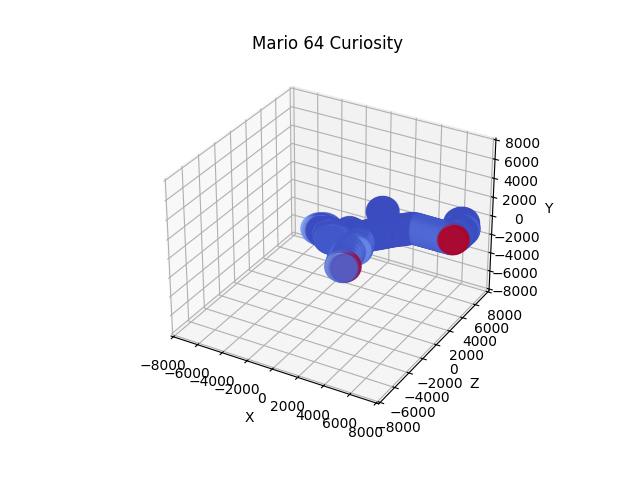
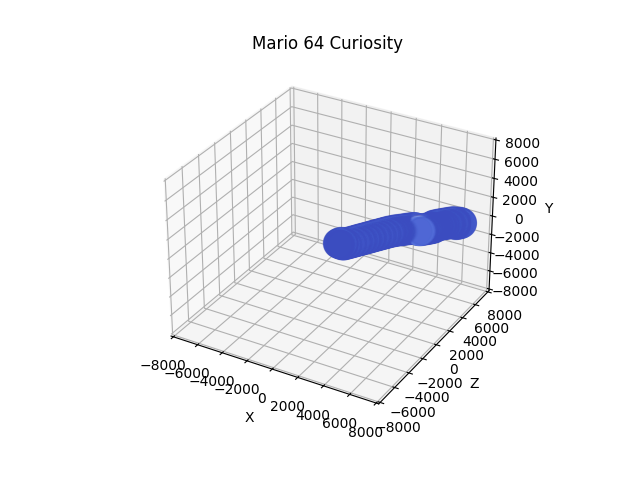
continuous visits support, considering using max visits in a sphere instead of using the immediate position visits

Changed region(s): [[0.4688, 0.4062, 0.625, 0.5938], [0.625, 0.4062, 0.75, 0.5312]]

diff --git a/sm64env/curiosity_util.py b/sm64env/curiosity_util.py
@@ -10,17 +10,17 @@ class CURIOSITY:
 
         self.F_shape = np.array([2 * self.bounding_size // self.chunk_xz_size, 2 * self.bounding_size // self.chunk_y_size, 2 * self.bounding_size // self.chunk_xz_size])
  
-        self.sphere_mask = self.create_mask()
+        self.sphere_mask, self.sphere_values = self.create_mask()
 
-        self.F = np.zeros(shape=self.F_shape, dtype=int)
+        self.F = np.zeros(shape=self.F_shape, dtype=float)
     
     def reset(self):
-        self.F = np.zeros(shape=self.F_shape, dtype=int)
+        self.F = np.zeros(shape=self.F_shape, dtype=float)
     
     def soft_reset(self):
-        self.F = self.F // 2
+        self.F = self.F / 2
 
-    def create_ellipsoid_tensor(self,shape_sphere):
+    def create_ellipsoid_tensor(self, shape_sphere):
         a, b, c = shape_sphere
         x = np.linspace(-1, 1, a)
         y = np.linspace(-1, 1, b)
@@ -31,23 +31,32 @@ class CURIOSITY:
         # print(yv)
         # print(zv)
         ellipsoid = (xv)**2 + (yv)**2 + (zv)**2 <= 1
-        
-        return ellipsoid
+        values = np.exp(-(xv**2 + yv**2 + zv**2))
+        return ellipsoid, values
 
-    def create_mask(self,):
+    def create_mask(self):
         shape_sphere = np.array([(2 * self.radius) // self.chunk_xz_size + 1, (2 * self.radius) // self.chunk_y_size + 1, (2 * self.radius) // self.chunk_xz_size + 1])
         # print(shape_rad)
-        tensor = self.create_ellipsoid_tensor(shape_sphere)
+        tensor, values = self.create_ellipsoid_tensor(shape_sphere)
+
         indices = np.argwhere(tensor)
+        values = values[indices[:, 0], indices[:, 1], indices[:, 2]]
+
         indices -= shape_sphere//2
-        return indices
+        return indices, values
 
     def add_circle(self,centre):
         centre = np.array(centre, dtype=int)
         indices = self.sphere_mask.copy()
+        values = self.sphere_values.copy()
+
         indices += self.pos_to_index(centre)
         # don't go over or under the bounds
-        indices = indices[((indices) >= 0).all(axis=1) & ((indices) < np.array(self.F_shape)).all(axis=1)]
+        indices_indices = ((indices) >= 0).all(axis=1) & ((indices) < np.array(self.F_shape)).all(axis=1)
+        values = values[indices_indices]
+        indices = indices[indices_indices]
+
+        # self.F[indices[:, 0], indices[:, 1], indices[:, 2]] += values
         self.F[indices[:, 0], indices[:, 1], indices[:, 2]] += 1
         self.F[indices[:, 0], indices[:, 1], indices[:, 2]] = np.clip(self.F[indices[:, 0], indices[:, 1], indices[:, 2]], 0, self.max_visits)
 
@@ -89,4 +98,15 @@ class CURIOSITY:
     def get_visits_multi(self, positions):
         indices = self.multi_pos_to_index(positions)
         return self.F[indices[:, 0], indices[:, 1], indices[:, 2]]
+
+    def get_max_visits(self, pos):
+        sphere = self.sphere_mask + self.index_to_pos(pos)
+        sphere = sphere[((sphere) >= 0).all(axis=1) & ((sphere) < np.array(self.F_shape)).all(axis=1)]
+        visits = self.F[sphere[:, 0], sphere[:, 1], sphere[:, 2]]
+        return np.max(visits)
+
+    
+    def get_max_visits_multi(self, positions):
+        return np.array([self.get_max_visits(pos) for pos in positions])
+
 

diff --git a/sm64env/sm64env_curiosity.py b/sm64env/sm64env_curiosity.py
@@ -10,7 +10,7 @@ def isInactive(localPlayer, netPlayer):
     return (netPlayer == None) or (not netPlayer.connected) or (localPlayer.currCourseNum != netPlayer.currCourseNum) or (localPlayer.currActNum != netPlayer.currActNum) or (localPlayer.currLevelNum != netPlayer.currLevelNum) or (localPlayer.currAreaIndex != netPlayer.currAreaIndex)
 
 class SM64_ENV_CURIOSITY(gym.Env):
-    def __init__(self, multi_step=4, max_visits=1000, num_points=1000, fps_amount=100, soft_reset=False,
+    def __init__(self, multi_step=4, max_visits=100, num_points=1000, fps_amount=100, soft_reset=False,
                   max_ray_length=8000, server=True, server_port=7777):
         self.game = load_sm64_CDLL.SM64_GAME(server=server, server_port=server_port)
         self.curiosity = curiosity_util.CURIOSITY(max_visits=max_visits)
@@ -85,6 +85,7 @@ class SM64_ENV_CURIOSITY(gym.Env):
             faceVector = np.array([math.sin(faceAngle), 0, math.cos(faceAngle)])
 
             visits = np.array([self.curiosity.get_visits(pos)])
+            # visits = np.array([self.curiosity.get_max_visits(pos)])
 
             self.curiosity.add_circle(pos) # Curiosity update for each player
 
@@ -94,7 +95,10 @@ class SM64_ENV_CURIOSITY(gym.Env):
 
         one_hot = np.tile(np.array([0,0,1]), (self.num_points, 1))
         pos_array, normal_array = self.game.get_raycast_sphere_with_normal(amount=self.num_points, maxRayLength=self.max_ray_length)
+        
         visits = self.curiosity.get_visits_multi(pos_array)
+        # visits = self.curiosity.get_max_visits_multi(pos_array)
+
         visits = np.expand_dims(visits, axis=1)
 
         filler = np.zeros((self.num_points, 3))
@@ -146,6 +150,7 @@ class SM64_ENV_CURIOSITY(gym.Env):
             return 0
 
         my_visits = self.curiosity.get_visits(self.my_pos)
+        # my_visits = self.curiosity.get_max_visits(self.my_pos)
         
         # curiosity_reward = (1 - my_visits / self.max_visits)
         curiosity_reward = math.exp(-4 * my_visits / self.max_visits)

diff --git a/visualiser.py b/visualiser.py
@@ -1,7 +1,7 @@
 import numpy as np
 import matplotlib.pyplot as plt
 import pickle
-
+import time
 fig = plt.figure()
 ax = fig.add_subplot(111, projection='3d', computed_zorder=False)
 
@@ -103,7 +103,8 @@ def visualise_curiosity(curiosity, pause_time=1):
     ax.set_zlabel('Y')
     ax.set_title('Mario 64 Curiosity')
 
-    plt.savefig('curiosity.png')
+    # plt.savefig('curiosity.png')
+
     with open('picklePlot.pickle', 'wb') as file:
         pickle.dump(fig, file)
     # Show the plot
@@ -112,5 +113,5 @@ def visualise_curiosity(curiosity, pause_time=1):
     # else:
     # plt.draw()
     # plt.pause(pause_time)
-    ax.clear()
-    # 
+    # ax.clear()
+    # # 

diff --git a/point_cloud_play_env.py b/point_cloud_play_env.py
@@ -33,6 +33,7 @@ while True:
 
     action = [(stickX, stickY), (buttonA, buttonB, buttonZ)]
     obs, reward, done, truncated, info = game.step(action)
-    visualiser.visualise_game_tokens(obs)
+    # visualiser.visualise_game_tokens(obs)
+    visualiser.visualise_curiosity(game.curiosity)
     
     # pbar.update(1)

diff --git a/play_processes.py b/play_processes.py
@@ -29,7 +29,7 @@ while True:
     # 
     # obs, reward, done, info = env.step(action)
     # visualise_game_tokens(obs)
-    # visualise_curiosity(env.curiosity)
+    visualise_curiosity(envs.get_attr('curiosity')[0])
     
     actions = ([action[0] for _ in range(n_envs)], [action[1] for _ in range(n_envs)])
 

diff --git a/train_env_curiosity_model_small.py b/train_env_curiosity_model_small.py
@@ -229,7 +229,7 @@ with tqdm.tqdm() as iterbar:
             obs = next_obs
             #logging here
 
-        # visualise_curiosity(envs.get_attr('curiosity')[0])
+        visualise_curiosity(envs.get_attr('curiosity')[0])
 
         # Bootstrapping the last obs
         with torch.no_grad():
